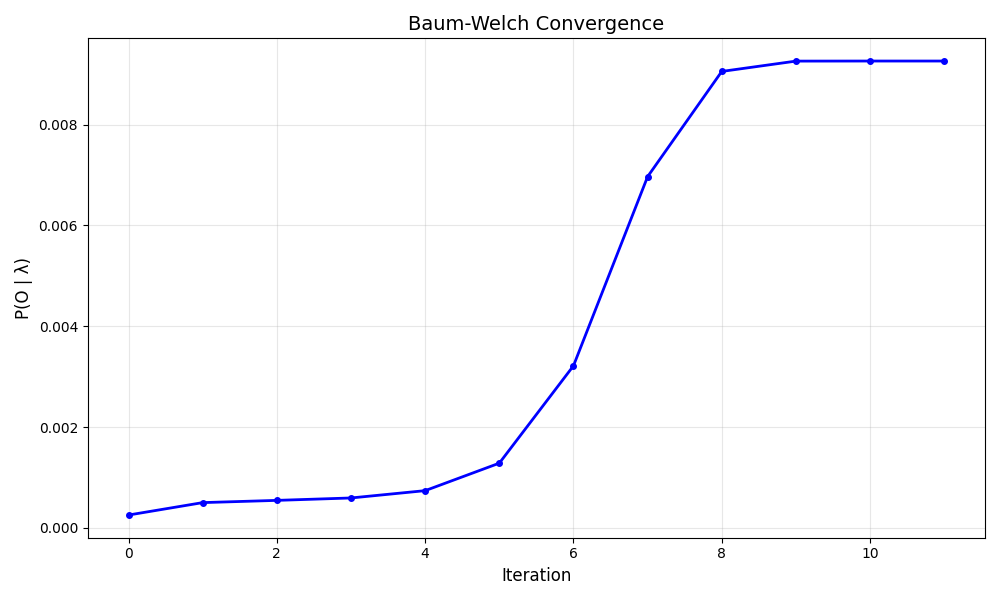
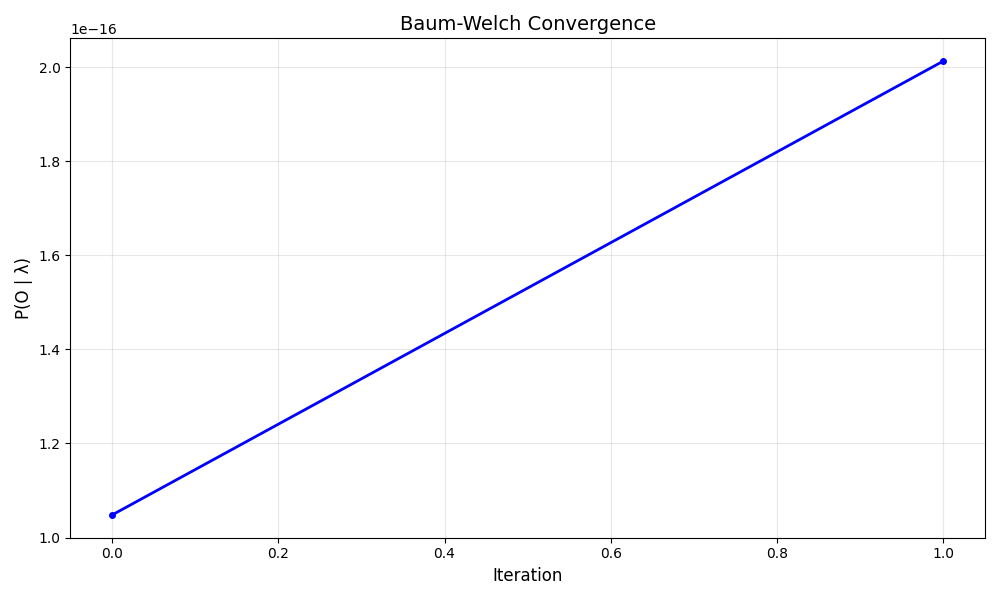
Updated HMM project with Flask structure

diff --git a/app.py b/app.py
@@ -11,13 +11,13 @@ import os
 
 app = Flask(__name__)
 
-def run_baum_welch_advanced(model, observations, max_iter=100, tol=1e-6):
-    """Run Baum-Welch with all tracking (keeps original functionality + adds tracking)"""
+def run_baum_welch_advanced(model, observations, max_iter=100, tol=1e-4):
+    """Run Baum-Welch with all tracking (uses updated baum_welch function)"""
     N = model.N
     M = model.M
     T = len(observations)
     
-    # Storage for tracking (NEW)
+    # Storage for tracking
     likelihoods = []
     log_likelihoods = []
     alphas = []
@@ -26,46 +26,49 @@ def run_baum_welch_advanced(model, observations, max_iter=100, tol=1e-6):
     A_history = []
     deltas = []
     
+    print(f"\n🚀 Training HMM with {N} states, {M} symbols, {len(observations)} observations")
+    
     for iteration in range(max_iter):
-        # Forward & Backward (ORIGINAL)
+        # Forward & Backward
         alpha = model.forward(observations)
         beta = model.backward(observations)
         
-        # Compute gamma (NEW for tracking)
+        # Compute gamma
         gamma = np.zeros((T, N))
         for t in range(T):
             denom = np.sum(alpha[t] * beta[t])
             if denom > 0:
                 gamma[t] = (alpha[t] * beta[t]) / denom
         
-        # Store intermediate values for last iteration (NEW)
+        # Store intermediate values for last iteration
         if iteration == max_iter - 1 or iteration == len(range(max_iter)) - 1:
-            alphas = alpha[:15]  # First 15 time steps
+            alphas = alpha[:15]
             betas = beta[:15]
             gammas = gamma[:15]
         
-        # Compute likelihood (ORIGINAL)
+        # Compute likelihood
         likelihood = np.sum(alpha[-1])
-        log_likelihood = np.log(likelihood + 1e-300)  # NEW
+        log_likelihood = np.log(likelihood + 1e-300)
         
         likelihoods.append(likelihood)
         log_likelihoods.append(log_likelihood)
         
-        # Store A history (NEW)
+        # Store A history
         A_history.append(model.A.copy())
         
-        # Compute delta (NEW)
+        # Compute delta (change in log-likelihood)
         if iteration > 0:
             delta = abs(log_likelihood - log_likelihoods[-2])
         else:
             delta = 0
         deltas.append(delta)
         
-        # Convergence check (ORIGINAL)
-        if iteration > 0 and abs(likelihoods[-1] - likelihoods[-2]) < tol:
+        # Convergence check using log-likelihood
+        if iteration > 0 and delta < tol:
+            print(f"  ✓ Converged at iteration {iteration + 1} (Δ = {delta:.6f})")
             break
         
-        # Compute xi (ORIGINAL Baum-Welch)
+        # Compute xi
         xi = np.zeros((T-1, N, N))
         for t in range(T-1):
             denom = np.sum(alpha[t][:, None] * model.A * model.B[:, observations[t+1]] * beta[t+1])
@@ -74,26 +77,33 @@ def run_baum_welch_advanced(model, observations, max_iter=100, tol=1e-6):
                     numer = alpha[t, i] * model.A[i, :] * model.B[:, observations[t+1]] * beta[t+1]
                     xi[t, i, :] = numer / denom
         
-        # Update pi (ORIGINAL)
+        # Update pi
         model.pi = gamma[0]
         
-        # Update A (ORIGINAL)
+        # Update A
         for i in range(N):
             denom = np.sum(gamma[:-1, i])
             if denom > 0:
                 for j in range(N):
                     model.A[i, j] = np.sum(xi[:, i, j]) / denom
         
-        # Update B (ORIGINAL)
+        # Update B
         for i in range(N):
             denom = np.sum(gamma[:, i])
             if denom > 0:
                 for k in range(M):
                     mask = (np.array(observations) == k)
                     model.B[i, k] = np.sum(gamma[mask, i]) / denom
+        
+        # Print progress every 5 iterations
+        if (iteration + 1) % 5 == 0:
+            print(f"  Iteration {iteration + 1}: Log-Likelihood = {log_likelihood:.4f}")
     
-    # Determine if converged (NEW)
     converged = len(likelihoods) < max_iter
+    
+    print(f"✓ Training completed in {len(likelihoods)} iterations")
+    print(f"✓ Final Log-Likelihood: {log_likelihoods[-1]:.4f}")
+    print(f"✓ Final P(O|λ): {likelihoods[-1]:.6e}")
     
     return {
         'model': model,
@@ -111,10 +121,10 @@ def run_baum_welch_advanced(model, observations, max_iter=100, tol=1e-6):
     }
 
 def create_plots(result, hidden_states, observations):
-    """Create all plots (ORIGINAL graph + NEW plots)"""
+    """Create all plots"""
     plots = {}
     
-    # ORIGINAL Likelihood Graph (save to static/graph.png)
+    # Original Likelihood Graph
     plt.figure(figsize=(10, 6))
     plt.plot(result['likelihoods'], 'b-', linewidth=2, marker='o', markersize=4)
     plt.xlabel("Iteration", fontsize=12)
@@ -123,14 +133,13 @@ def create_plots(result, hidden_states, observations):
     plt.grid(True, alpha=0.3)
     plt.tight_layout()
     
-    # Save ORIGINAL graph to static folder
     os.makedirs("static", exist_ok=True)
     plt.savefig("static/graph.png", dpi=100)
     plt.close()
     
-    # NEW: Log-Likelihood Convergence (for display in page)
+    # Log-Likelihood Convergence
     plt.figure(figsize=(8, 4))
-    plt.plot(result['log_likelihoods'], 'r-', linewidth=2)
+    plt.plot(result['log_likelihoods'], 'r-', linewidth=2, marker='s', markersize=3)
     plt.xlabel("Iteration")
     plt.ylabel("Log P(O|λ)")
     plt.title("Log-Likelihood Convergence")
@@ -143,7 +152,7 @@ def create_plots(result, hidden_states, observations):
     plots['log_likelihood'] = base64.b64encode(img.getvalue()).decode()
     plt.close()
     
-    # NEW: Parameter Evolution (if we have history)
+    # Parameter Evolution
     if len(result['A_history']) > 1:
         plt.figure(figsize=(8, 4))
         A_history = np.array(result['A_history'])
@@ -163,17 +172,16 @@ def create_plots(result, hidden_states, observations):
         plots['param_evolution'] = base64.b64encode(img.getvalue()).decode()
         plt.close()
     
-    # NEW: FSM Diagram
+    # FSM Diagram
     create_fsm_diagram(result['model'])
     
     return plots
 
 def create_fsm_diagram(model):
-    """Create a simple FSM diagram"""
+    """Create FSM diagram"""
     plt.figure(figsize=(6, 4))
     
     N = model.N
-    # Create a circular layout
     angles = np.linspace(0, 2*np.pi, N, endpoint=False)
     radius = 0.3
     centers = [(0.5 + radius * np.cos(a), 0.5 + radius * np.sin(a)) for a in angles]
@@ -192,14 +200,12 @@ def create_fsm_diagram(model):
                 x2, y2 = centers[j]
                 
                 if i == j:
-                    # Self-loop
                     circle = plt.Circle((x1, y1 + 0.15), 0.08, fill=False, 
                                       ec='gray', linestyle='-', linewidth=1)
                     plt.gca().add_patch(circle)
                     plt.text(x1 + 0.12, y1 + 0.2, f'{model.A[i, j]:.2f}', 
                            fontsize=8, ha='center')
                 else:
-                    # Arrow
                     dx = x2 - x1
                     dy = y2 - y1
                     plt.arrow(x1 + 0.05*dx, y1 + 0.05*dy, 0.8*dx, 0.8*dy, 
@@ -214,7 +220,6 @@ def create_fsm_diagram(model):
     plt.axis('off')
     plt.title("State Transition Diagram")
     
-    # Save diagram
     os.makedirs("static", exist_ok=True)
     plt.savefig("static/diagram.png", dpi=100, bbox_inches='tight')
     plt.close()
@@ -229,26 +234,26 @@ def index():
 
     if request.method == "POST":
         try:
-            # Get form data (ORIGINAL fields)
+            # Get form data
             hidden_states = int(request.form["hidden_states"])
             max_iter = int(request.form["max_iter"])
             
-            # Parse observations (ORIGINAL)
+            # Parse observations
             observations = list(map(int, request.form["observations"].split(",")))
             
-            # NEW: Optional symbols field
+            # Optional symbols field
             if request.form.get("symbols") and request.form["symbols"].strip():
                 M = int(request.form["symbols"])
             else:
-                M = len(set(observations))  # Auto-detect (ORIGINAL behavior)
+                M = len(set(observations))  # Auto-detect
             
-            # Create model (ORIGINAL)
+            # Create model
             model = HiddenMarkovModel(hidden_states, M)
             
-            # Train with advanced tracking
-            training_result = run_baum_welch_advanced(model, observations, max_iter)
+            # Train with advanced tracking (using updated convergence with tol=1e-4)
+            training_result = run_baum_welch_advanced(model, observations, max_iter, tol=1e-4)
             
-            # Create intermediate table for display (NEW)
+            # Create intermediate table
             intermediate_table = []
             if len(training_result['alphas']) > 0:
                 for t in range(min(10, len(training_result['alphas']))):
@@ -263,17 +268,14 @@ def index():
             # Create plots
             plots = create_plots(training_result, hidden_states, observations)
             
-            # Prepare results (ORIGINAL + NEW)
+            # Prepare results
             result = {
-                # ORIGINAL fields (with suppress_small=True)
                 "A": np.array2string(training_result['model'].A, precision=4, separator=', ', suppress_small=True),
                 "B": np.array2string(training_result['model'].B, precision=4, separator=', ', suppress_small=True),
                 "pi": np.array2string(training_result['model'].pi, precision=4, separator=', ', suppress_small=True),
                 "likelihoods": training_result['likelihoods'],
                 "final_likelihood": training_result['final_likelihood'],
                 "iterations": training_result['iterations'],
-                
-                # NEW fields
                 "final_log_likelihood": training_result['final_log_likelihood'],
                 "converged": training_result['converged'],
                 "delta": training_result['deltas'][-1] if training_result['deltas'] else 0,
@@ -281,12 +283,12 @@ def index():
                 "log_likelihoods": training_result['log_likelihoods']
             }
             
-            # Set paths
             graph_path = "static/graph.png"
             diagram_path = "static/diagram.png"
             
         except Exception as e:
             error = str(e)
+            print(f"Error: {e}")
     
     return render_template("index.html", 
                           result=result, 
@@ -294,7 +296,7 @@ def index():
                           graph_path=graph_path,
                           diagram_path=diagram_path,
                           error=error,
-                          request=request)  # Pass request for form field retention
+                          request=request)
 
 if __name__ == "__main__":
     app.run(debug=True)

diff --git a/src/baum_welch.py b/src/baum_welch.py
@@ -1,27 +1,37 @@
 import numpy as np
 
-def baum_welch(model, observations, max_iter=100, tol=1e-6):
+def baum_welch(model, observations, max_iter=100, tol=1e-4):  # Changed tol to 1e-4
     """
     Baum-Welch algorithm for training HMM parameters
+    Uses log-likelihood for convergence (more stable)
     """
     N = model.N
     M = model.M
     T = len(observations)
     
     likelihoods = []
+    log_likelihoods = []  # Track log-likelihood for convergence
+    
+    print(f"Starting Baum-Welch training with {max_iter} max iterations...")
     
     for iteration in range(max_iter):
         # Forward & Backward
         alpha = model.forward(observations)
         beta = model.backward(observations)
         
-        # Compute likelihood P(O | lambda)
+        # Compute likelihood
         likelihood = np.sum(alpha[-1])
-        likelihoods.append(likelihood)
+        log_likelihood = np.log(likelihood + 1e-300)  # Avoid log(0)
         
-        # Convergence check
-        if iteration > 0 and abs(likelihoods[-1] - likelihoods[-2]) < tol:
-            break
+        likelihoods.append(likelihood)
+        log_likelihoods.append(log_likelihood)
+        
+        # Convergence check using LOG-LIKELIHOOD (more stable for small probabilities)
+        if iteration > 0:
+            change = abs(log_likelihoods[-1] - log_likelihoods[-2])
+            if change < tol:
+                print(f"✓ Converged at iteration {iteration + 1} (change = {change:.6f} < {tol})")
+                break
         
         # Compute gamma (probability of being in state i at time t)
         gamma = np.zeros((T, N))
@@ -34,7 +44,7 @@ def baum_welch(model, observations, max_iter=100, tol=1e-6):
         xi = np.zeros((T-1, N, N))
         for t in range(T-1):
             denom = np.sum(alpha[t][:, None] * model.A * model.B[:, observations[t+1]] * beta[t+1])
-            if denom > 0:  # Avoid division by zero
+            if denom > 0:
                 for i in range(N):
                     numer = alpha[t, i] * model.A[i, :] * model.B[:, observations[t+1]] * beta[t+1]
                     xi[t, i, :] = numer / denom
@@ -56,5 +66,12 @@ def baum_welch(model, observations, max_iter=100, tol=1e-6):
                 for k in range(M):
                     mask = (np.array(observations) == k)
                     model.B[i, k] = np.sum(gamma[mask, i]) / denom
+        
+        # Print progress every 5 iterations
+        if (iteration + 1) % 5 == 0:
+            print(f"  Iteration {iteration + 1}: Log-Likelihood = {log_likelihood:.4f}")
+    
+    print(f"✓ Training completed in {len(likelihoods)} iterations")
+    print(f"✓ Final Log-Likelihood: {log_likelihoods[-1]:.4f}")
     
     return model, likelihoods
